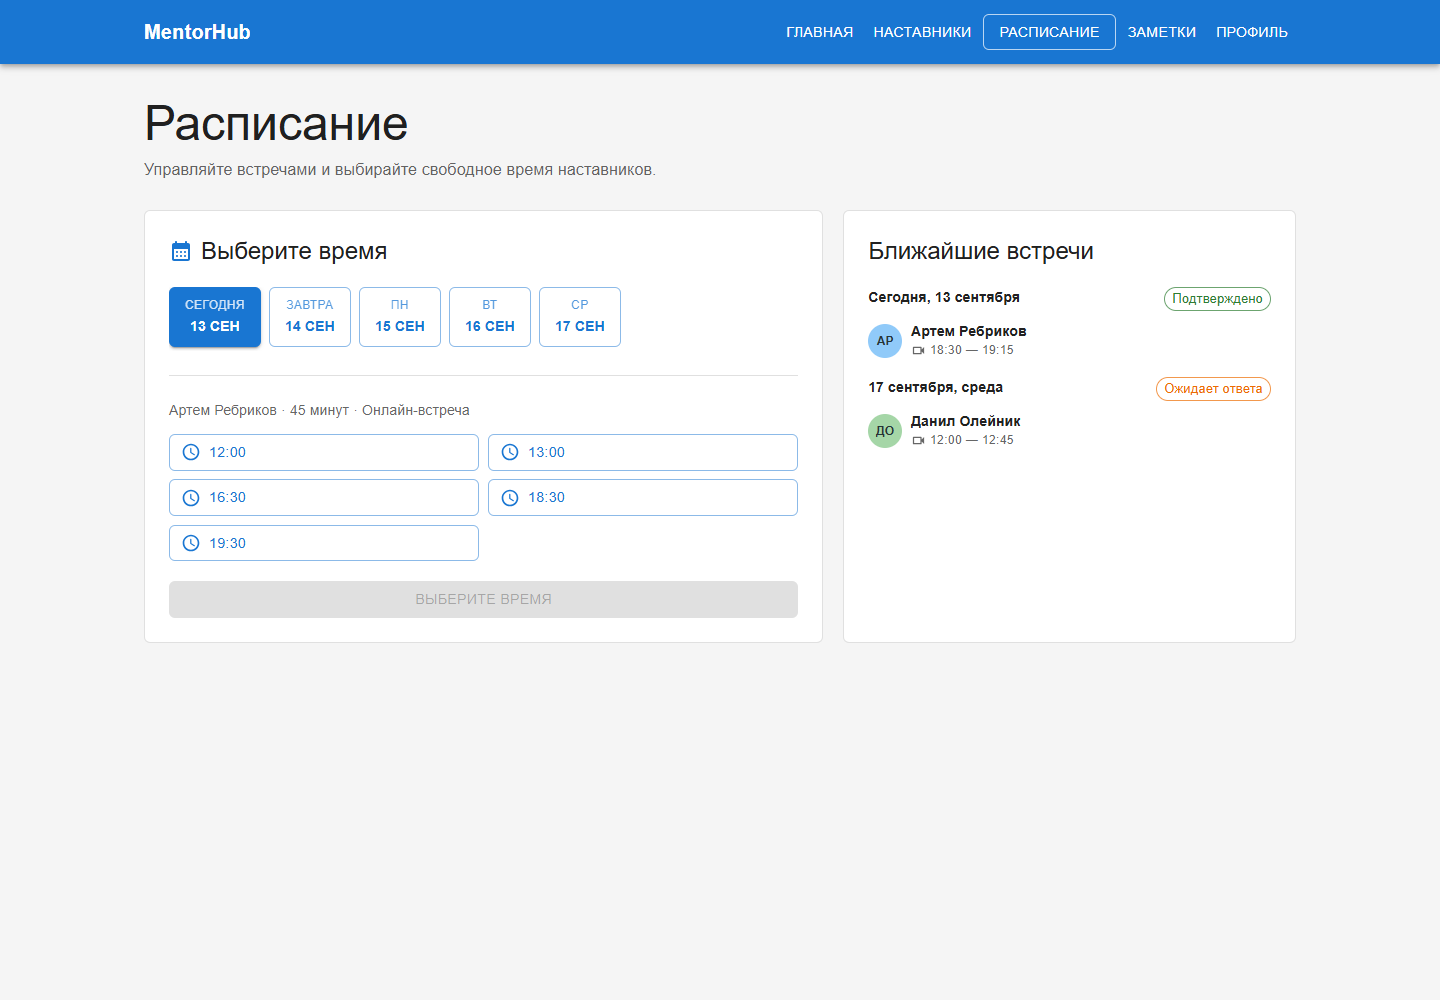
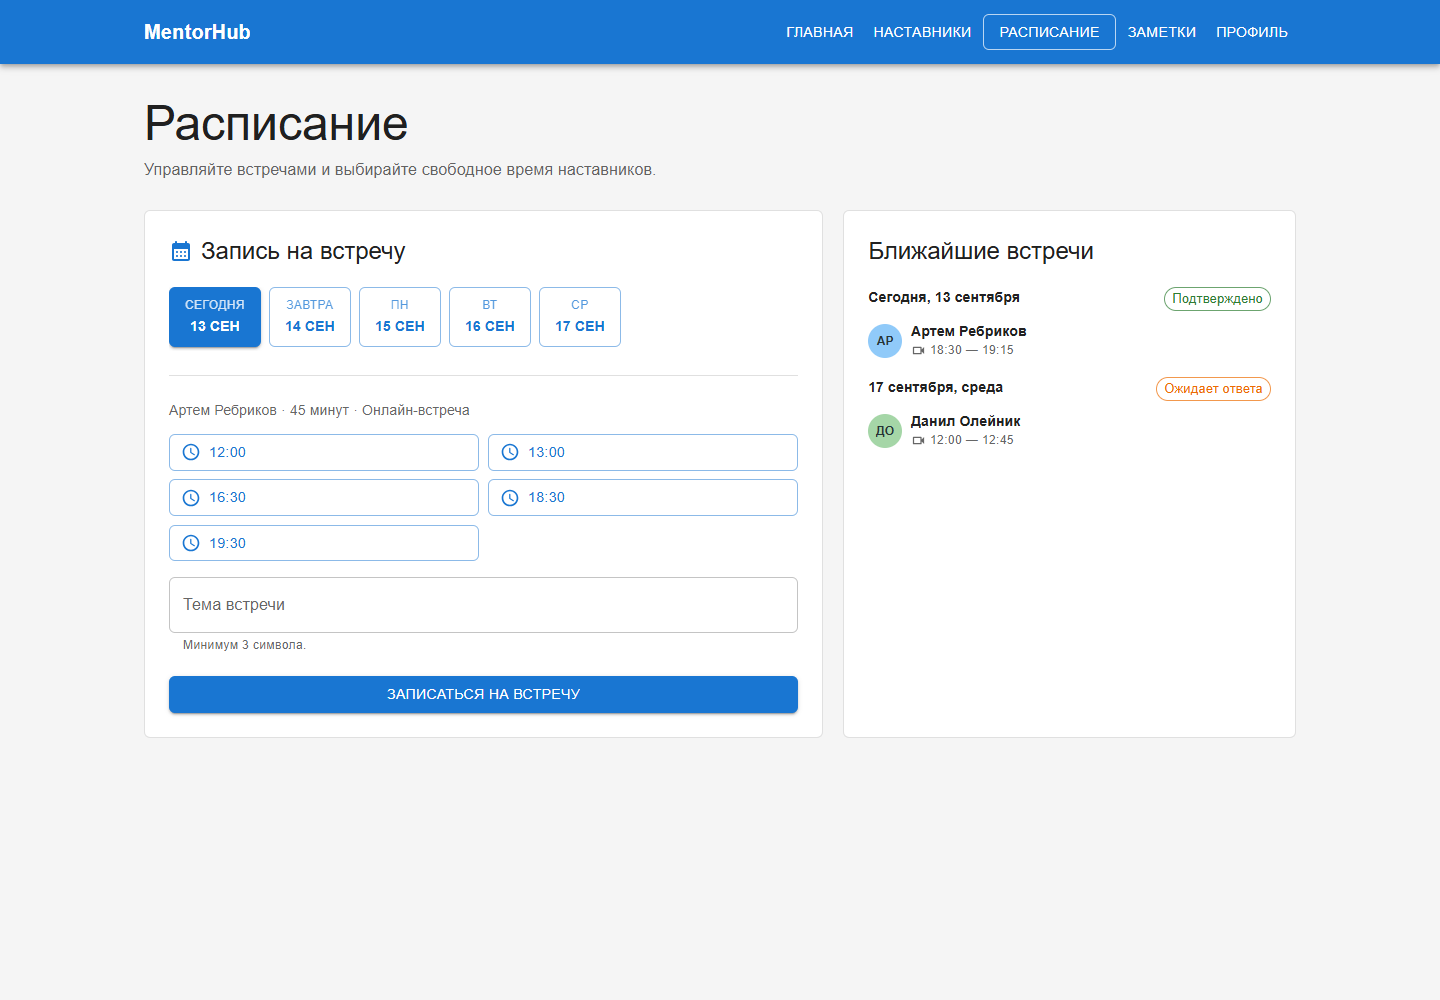
Завершение лабораторной работы №3

Changed region(s): [[0.0938, 0.558, 0.5625, 0.713], [0.125, 0.248, 0.2812, 0.279]]

diff --git a/src/app/providers/AppDataProvider.tsx b/src/app/providers/AppDataProvider.tsx
@@ -1,4 +1,4 @@
-import { createContext, useContext, useEffect, useState, type ReactNode } from 'react'
+import { useEffect, useState, type ReactNode } from 'react'
 import { meetings as initialMeetings } from '../../entities/appointment/data/meetings'
 import type { CreateMeetingInput, Meeting } from '../../entities/appointment/model/types'
 import { mentors as initialMentors } from '../../entities/mentor/data/mentors'
@@ -6,18 +6,7 @@ import type { Mentor } from '../../entities/mentor/model/types'
 import { initialNotes } from '../../entities/note/data/initialNotes'
 import type { CreateNoteInput, Note } from '../../entities/note/model/types'
 import type { DataStatus } from '../../shared/model/dataStatus'
-
-type AppDataContextValue = {
-  mentors: Mentor[]
-  meetings: Meeting[]
-  notes: Note[]
-  dataStatus: DataStatus
-  retryDataLoading: () => void
-  addMeeting: (data: CreateMeetingInput) => Meeting
-  addNote: (data: CreateNoteInput) => Note
-}
-
-const AppDataContext = createContext<AppDataContextValue | null>(null)
+import { AppDataContext } from './AppDataContext'
 
 type AppDataProviderProps = {
   children: ReactNode
@@ -71,14 +60,4 @@ export function AppDataProvider({ children }: AppDataProviderProps) {
       {children}
     </AppDataContext.Provider>
   )
-}
-
-export function useAppData() {
-  const context = useContext(AppDataContext)
-
-  if (context === null) {
-    throw new Error('useAppData нужно использовать внутри AppDataProvider')
-  }
-
-  return context
 }

diff --git a/src/pages/MentorsPage.tsx b/src/pages/MentorsPage.tsx
@@ -2,7 +2,7 @@ import { useMemo, useState } from 'react'
 import SearchRounded from '@mui/icons-material/SearchRounded'
 import TuneRounded from '@mui/icons-material/TuneRounded'
 import { Box, InputAdornment, MenuItem, Select, TextField } from '@mui/material'
-import { useAppData } from '../app/providers/AppDataProvider'
+import { useAppData } from '../app/providers/useAppData'
 import { MentorCard } from '../entities/mentor/ui/MentorCard'
 import { DataStateView } from '../shared/ui/DataStateView'
 import { PageHeader } from '../shared/ui/PageHeader'
@@ -18,7 +18,7 @@ export function MentorsPage() {
       const matchesDirection = direction === 'Все направления' || mentor.skills.includes(direction)
       return matchesQuery && matchesDirection
     })
-  }, [direction, query])
+  }, [direction, mentors, query])
 
   return (
     <>

diff --git a/src/app/providers/AppDataContext.ts b/src/app/providers/AppDataContext.ts
@@ -1,0 +1,17 @@
+import { createContext } from 'react'
+import type { CreateMeetingInput, Meeting } from '../../entities/appointment/model/types'
+import type { Mentor } from '../../entities/mentor/model/types'
+import type { CreateNoteInput, Note } from '../../entities/note/model/types'
+import type { DataStatus } from '../../shared/model/dataStatus'
+
+export type AppDataContextValue = {
+  mentors: Mentor[]
+  meetings: Meeting[]
+  notes: Note[]
+  dataStatus: DataStatus
+  retryDataLoading: () => void
+  addMeeting: (data: CreateMeetingInput) => Meeting
+  addNote: (data: CreateNoteInput) => Note
+}
+
+export const AppDataContext = createContext<AppDataContextValue | null>(null)

diff --git a/src/pages/NotesPage.tsx b/src/pages/NotesPage.tsx
@@ -3,7 +3,7 @@ import AddRounded from '@mui/icons-material/AddRounded'
 import ArrowOutwardRounded from '@mui/icons-material/ArrowOutwardRounded'
 import StickyNote2Rounded from '@mui/icons-material/StickyNote2Rounded'
 import { Box, Button, Chip, Fade, Grow, IconButton, Paper, Stack, Typography } from '@mui/material'
-import { useAppData } from '../app/providers/AppDataProvider'
+import { useAppData } from '../app/providers/useAppData'
 import { CreateNoteDialog } from '../features/create-note/ui/CreateNoteDialog'
 import { DataStateView } from '../shared/ui/DataStateView'
 import { PageHeader } from '../shared/ui/PageHeader'

diff --git a/src/pages/SchedulePage.tsx b/src/pages/SchedulePage.tsx
@@ -2,7 +2,7 @@ import { useState } from 'react'
 import CheckCircleRounded from '@mui/icons-material/CheckCircleRounded'
 import VideocamOutlined from '@mui/icons-material/VideocamOutlined'
 import { Avatar, Box, Chip, Grow, Paper, Snackbar, Stack, Typography } from '@mui/material'
-import { useAppData } from '../app/providers/AppDataProvider'
+import { useAppData } from '../app/providers/useAppData'
 import { CreateAppointmentForm } from '../features/create-appointment/ui/CreateAppointmentForm'
 import { DataStateView } from '../shared/ui/DataStateView'
 import { PageHeader } from '../shared/ui/PageHeader'

diff --git a/src/pages/DashboardPage.tsx b/src/pages/DashboardPage.tsx
@@ -4,7 +4,7 @@ import CalendarMonthRounded from '@mui/icons-material/CalendarMonthRounded'
 import ChevronRightRounded from '@mui/icons-material/ChevronRightRounded'
 import StickyNote2Rounded from '@mui/icons-material/StickyNote2Rounded'
 import { Avatar, Box, Button, Chip, Divider, Paper, Stack, Typography } from '@mui/material'
-import { useAppData } from '../app/providers/AppDataProvider'
+import { useAppData } from '../app/providers/useAppData'
 import { DataStateView } from '../shared/ui/DataStateView'
 
 const metrics = [

diff --git a/src/features/create-appointment/ui/CreateAppointmentForm.tsx b/src/features/create-appointment/ui/CreateAppointmentForm.tsx
@@ -2,7 +2,7 @@ import { useState } from 'react'
 import AccessTimeRounded from '@mui/icons-material/AccessTimeRounded'
 import CalendarMonthRounded from '@mui/icons-material/CalendarMonthRounded'
 import { Box, Button, Divider, FormHelperText, Paper, Stack, TextField, Typography } from '@mui/material'
-import { useAppData } from '../../../app/providers/AppDataProvider'
+import { useAppData } from '../../../app/providers/useAppData'
 
 type CreateAppointmentFormProps = {
   onCreated: () => void

diff --git a/src/features/create-note/ui/CreateNoteDialog.tsx b/src/features/create-note/ui/CreateNoteDialog.tsx
@@ -1,7 +1,7 @@
 import { useState } from 'react'
 import CloseRounded from '@mui/icons-material/CloseRounded'
 import { Button, Dialog, DialogActions, DialogContent, DialogTitle, IconButton, TextField } from '@mui/material'
-import { useAppData } from '../../../app/providers/AppDataProvider'
+import { useAppData } from '../../../app/providers/useAppData'
 
 type CreateNoteDialogProps = {
   open: boolean

diff --git a/src/app/providers/useAppData.ts b/src/app/providers/useAppData.ts
@@ -1,0 +1,12 @@
+import { useContext } from 'react'
+import { AppDataContext } from './AppDataContext'
+
+export function useAppData() {
+  const context = useContext(AppDataContext)
+
+  if (context === null) {
+    throw new Error('useAppData нужно использовать внутри AppDataProvider')
+  }
+
+  return context
+}

diff --git a/README.md b/README.md
@@ -72,7 +72,30 @@ src/
 - `entities` хранит типы, демонстрационные данные и компоненты, относящиеся к одной сущности;
 - `shared` предназначен для кода, который может использоваться в разных частях проекта и не зависит от конкретной сущности.
 
-Текущие файлы будут перенесены постепенно: `App.tsx`, `main.tsx` и `theme.ts` — в `app`; `mockData.ts` и `types.ts` — в `entities`; общие компоненты — в `shared`; существующие страницы останутся в `pages`. Перенос выполняется отдельным этапом, чтобы не смешивать изменение архитектуры с добавлением интерактивного поведения.
+В этой структуре `App.tsx`, `main.tsx` и `theme.ts` находятся в `app`; демонстрационные данные и типы разнесены по `entities`; общие компоненты находятся в `shared`; страницы остаются в `pages`.
+
+## Лабораторная работа №3
+
+В третьей лабораторной frontend получил модульную структуру и динамическое поведение без подключения к backend.
+
+- состояние наставников, встреч и заметок хранится в типизированном `AppDataProvider` на React Context;
+- функции создания встречи и заметки вынесены в `features`;
+- формы проверяют обязательные поля и показывают ошибки рядом с ними;
+- после создания заметка или встреча сразу появляется на связанном экране;
+- для экранов с данными добавлены состояния загрузки, ошибки и пустого списка;
+- добавлены небольшие анимации появления записей и переключения заметок.
+
+Данные пока остаются демонстрационными и после перезагрузки страницы возвращаются к начальному состоянию. Подключение React к API FastAPI и PostgreSQL будет выполнено в лабораторной работе №5.
+
+## Скриншоты frontend
+
+Скриншоты находятся в `docs/screenshots`. Для их обновления сначала запустите приложение командой `npm.cmd run dev`, затем в отдельном PowerShell выполните:
+
+```powershell
+npm.cmd run screenshots
+```
+
+Скрипт сохраняет основные страницы, открытую форму создания заметки, ошибки формы записи на встречу и пустой результат поиска наставника. В конце он также проверяет сценарии успешного создания заметки и записи на встречу.
 
 ## Быстрый запуск backend с PostgreSQL
 
@@ -156,4 +179,4 @@ npm run dev
 
 Если PowerShell блокирует `npm.ps1`, используйте `npm.cmd install` и `npm.cmd run dev`.
 
-На второй лабораторной frontend пока продолжает работать с демонстрационными данными. Полная интеграция React и FastAPI будет выполнена в лабораторной работе №5.
+После лабораторной №3 frontend продолжает работать с демонстрационными данными. Полная интеграция React и FastAPI будет выполнена в лабораторной работе №5.
